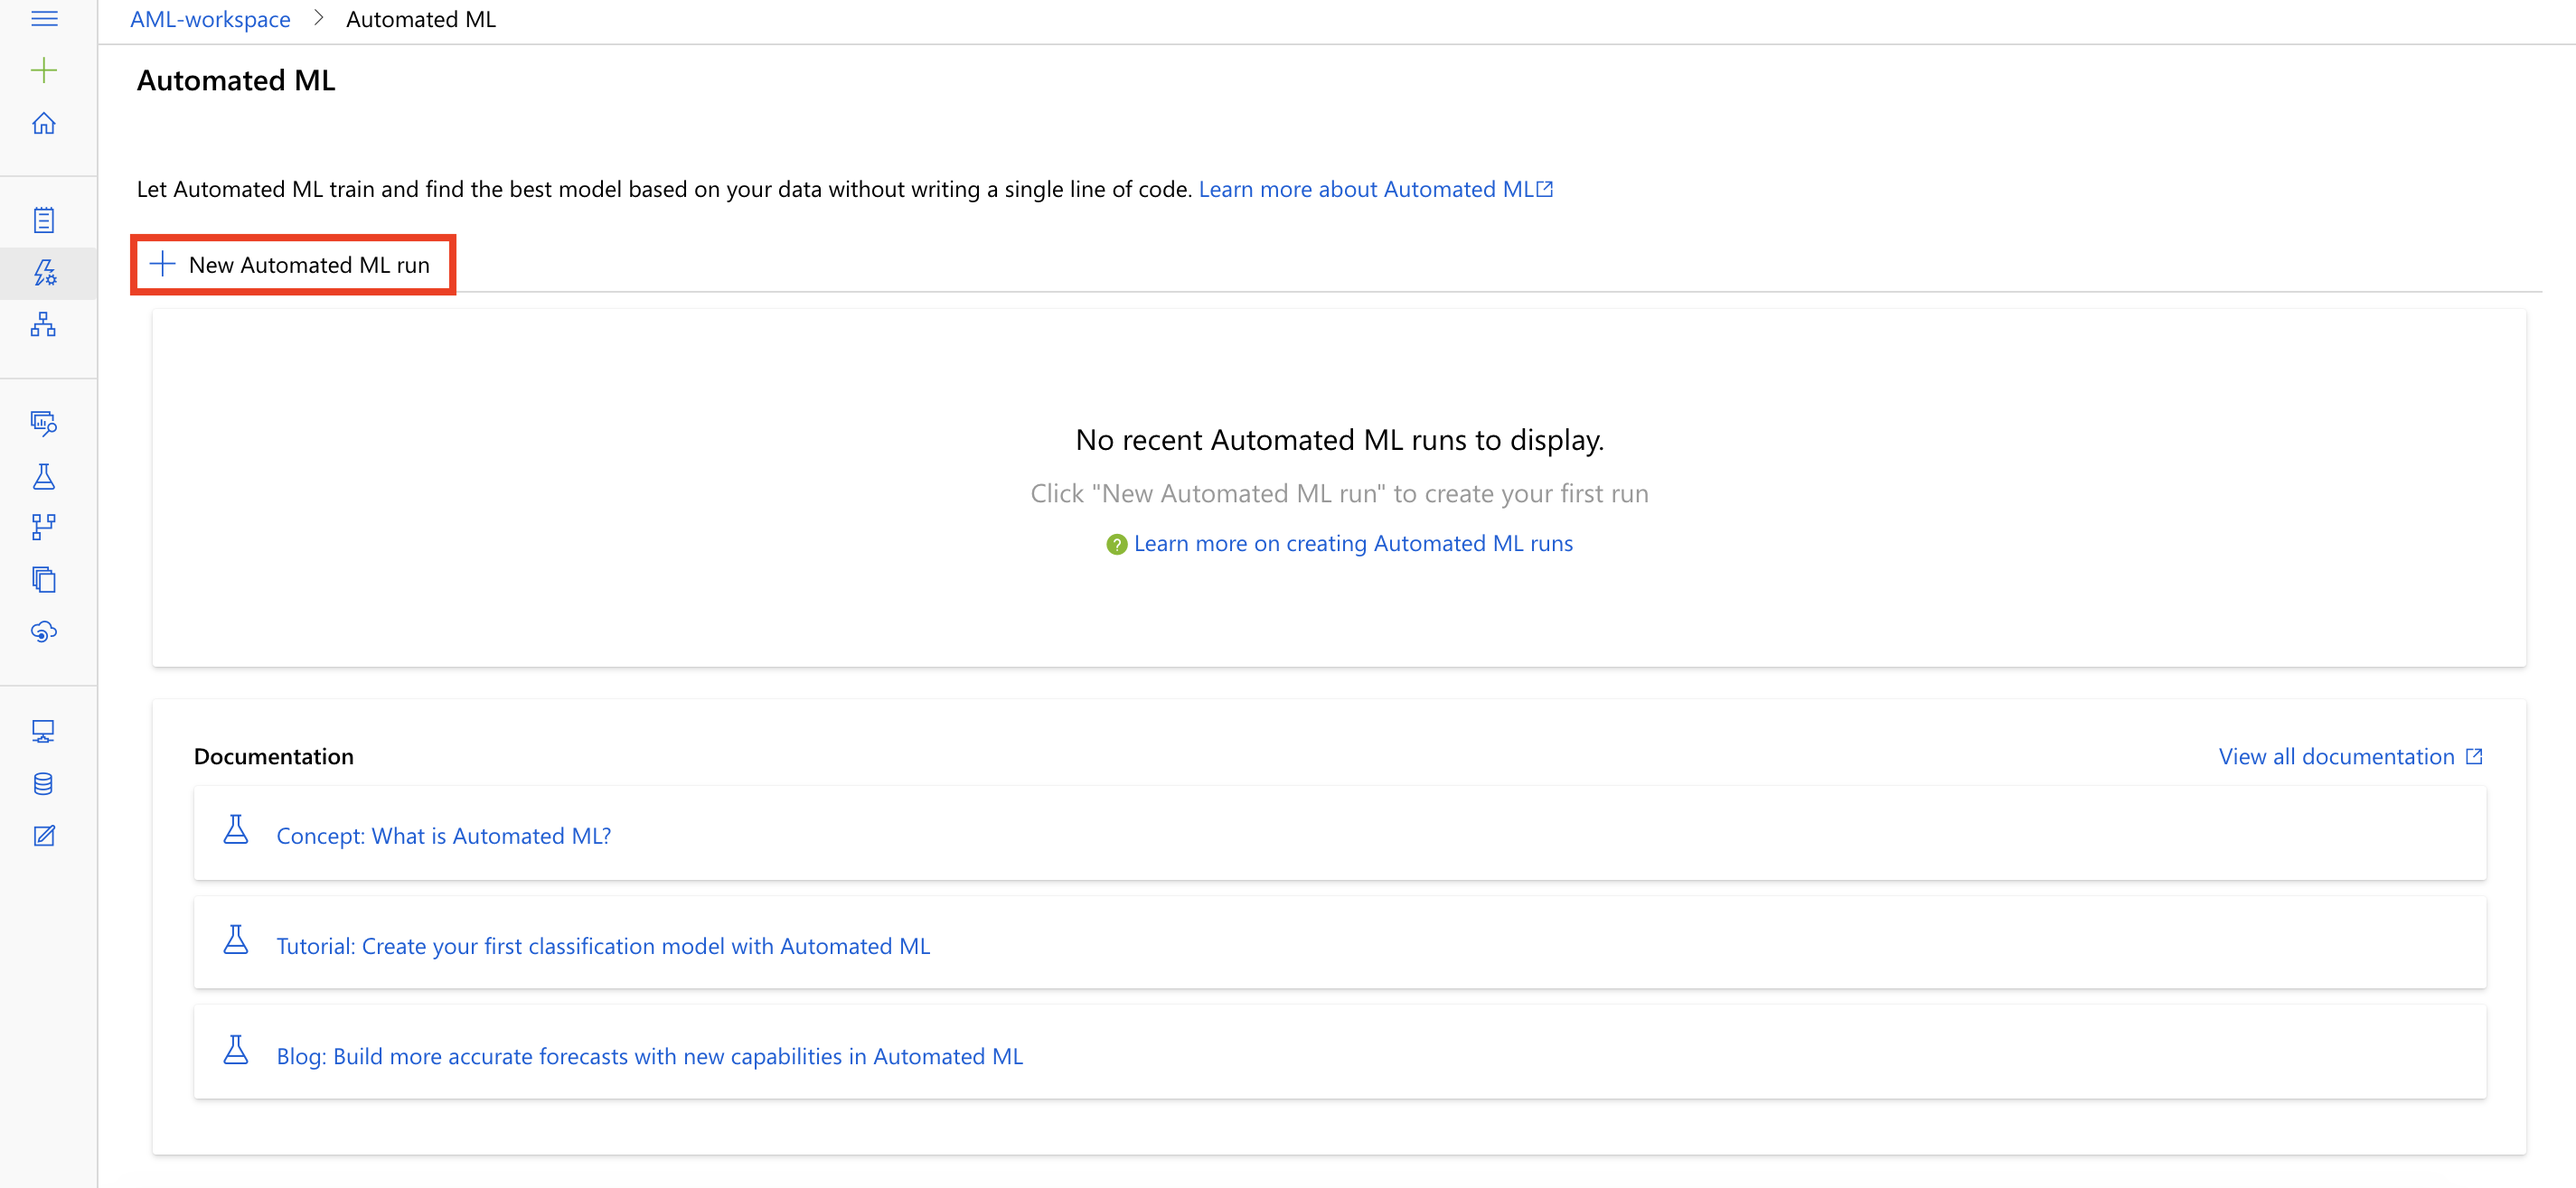
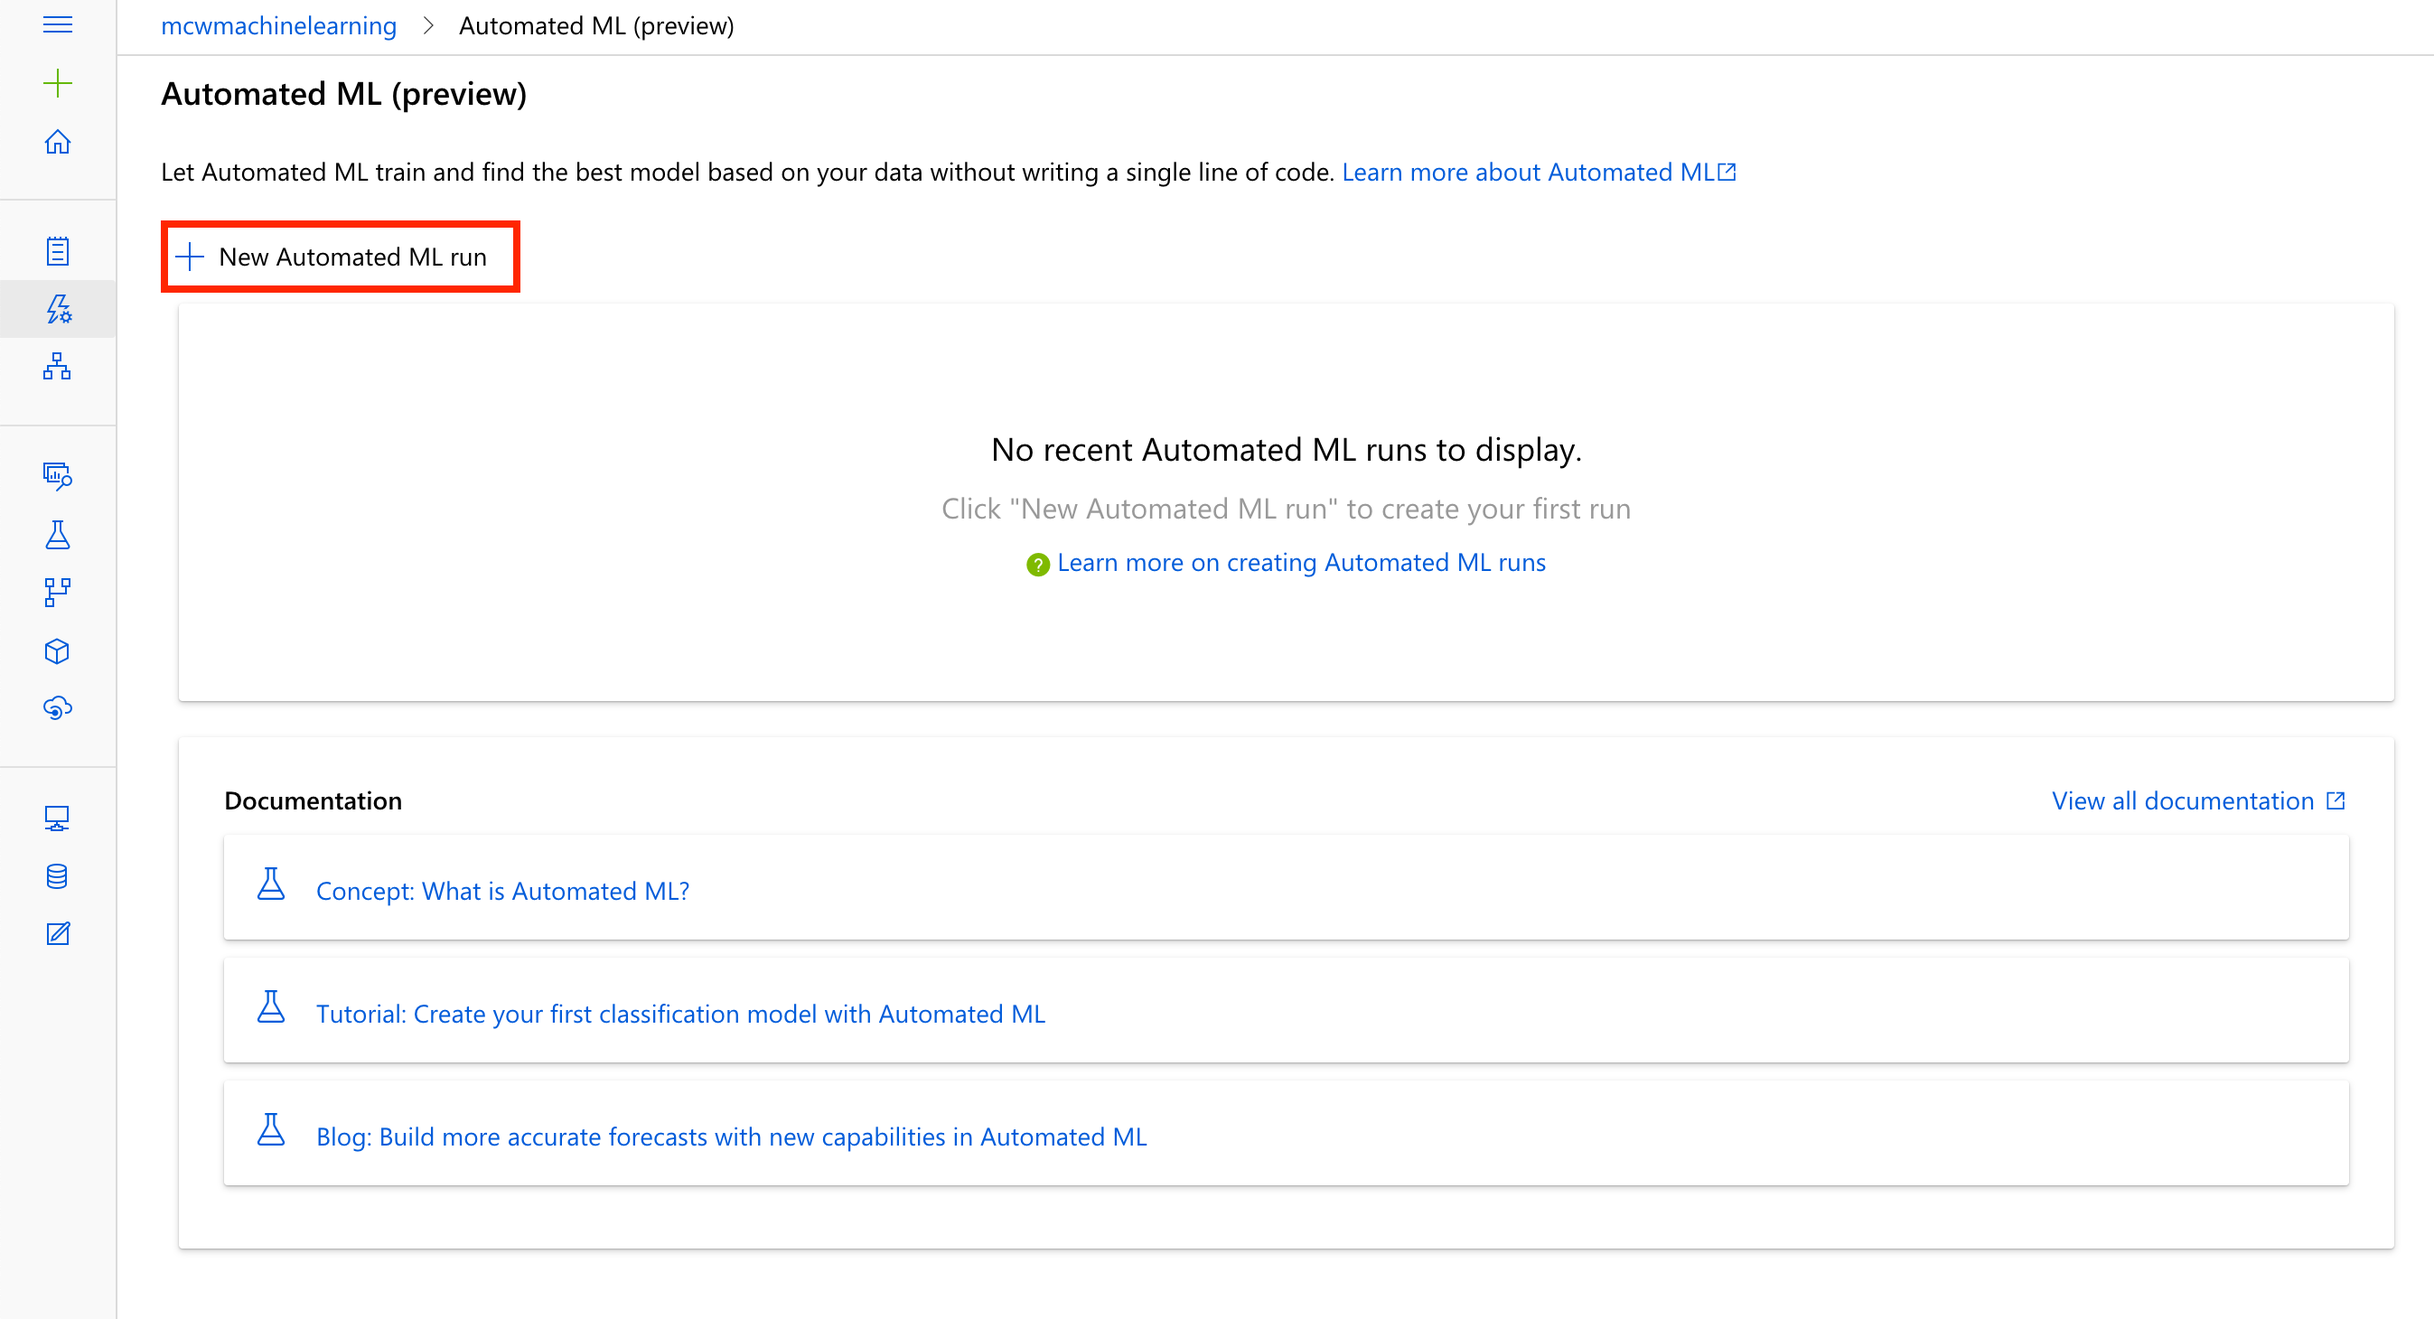
Updated screenshots to reflect the new resource names

diff --git a/Hands-on lab/HOL step-by step - Machine Learning.md b/Hands-on lab/HOL step-by step - Machine Learning.md
@@ -209,9 +209,9 @@ In this exercise, you will create a model that predicts battery failure from tim
 
 2. Provide the `Name`, `Description` and `Compute type`, and then select **Deploy**:
 
-    - **Name**: **battery-cycles**
+    - **Name**: `battery-cycles`
 
-    - **Description**: **The best AutoML model to predict battery cycles.**
+    - **Description**: `The best AutoML model to predict battery cycles.`
 
     - **Compute type**: Select `ACI`.
 
